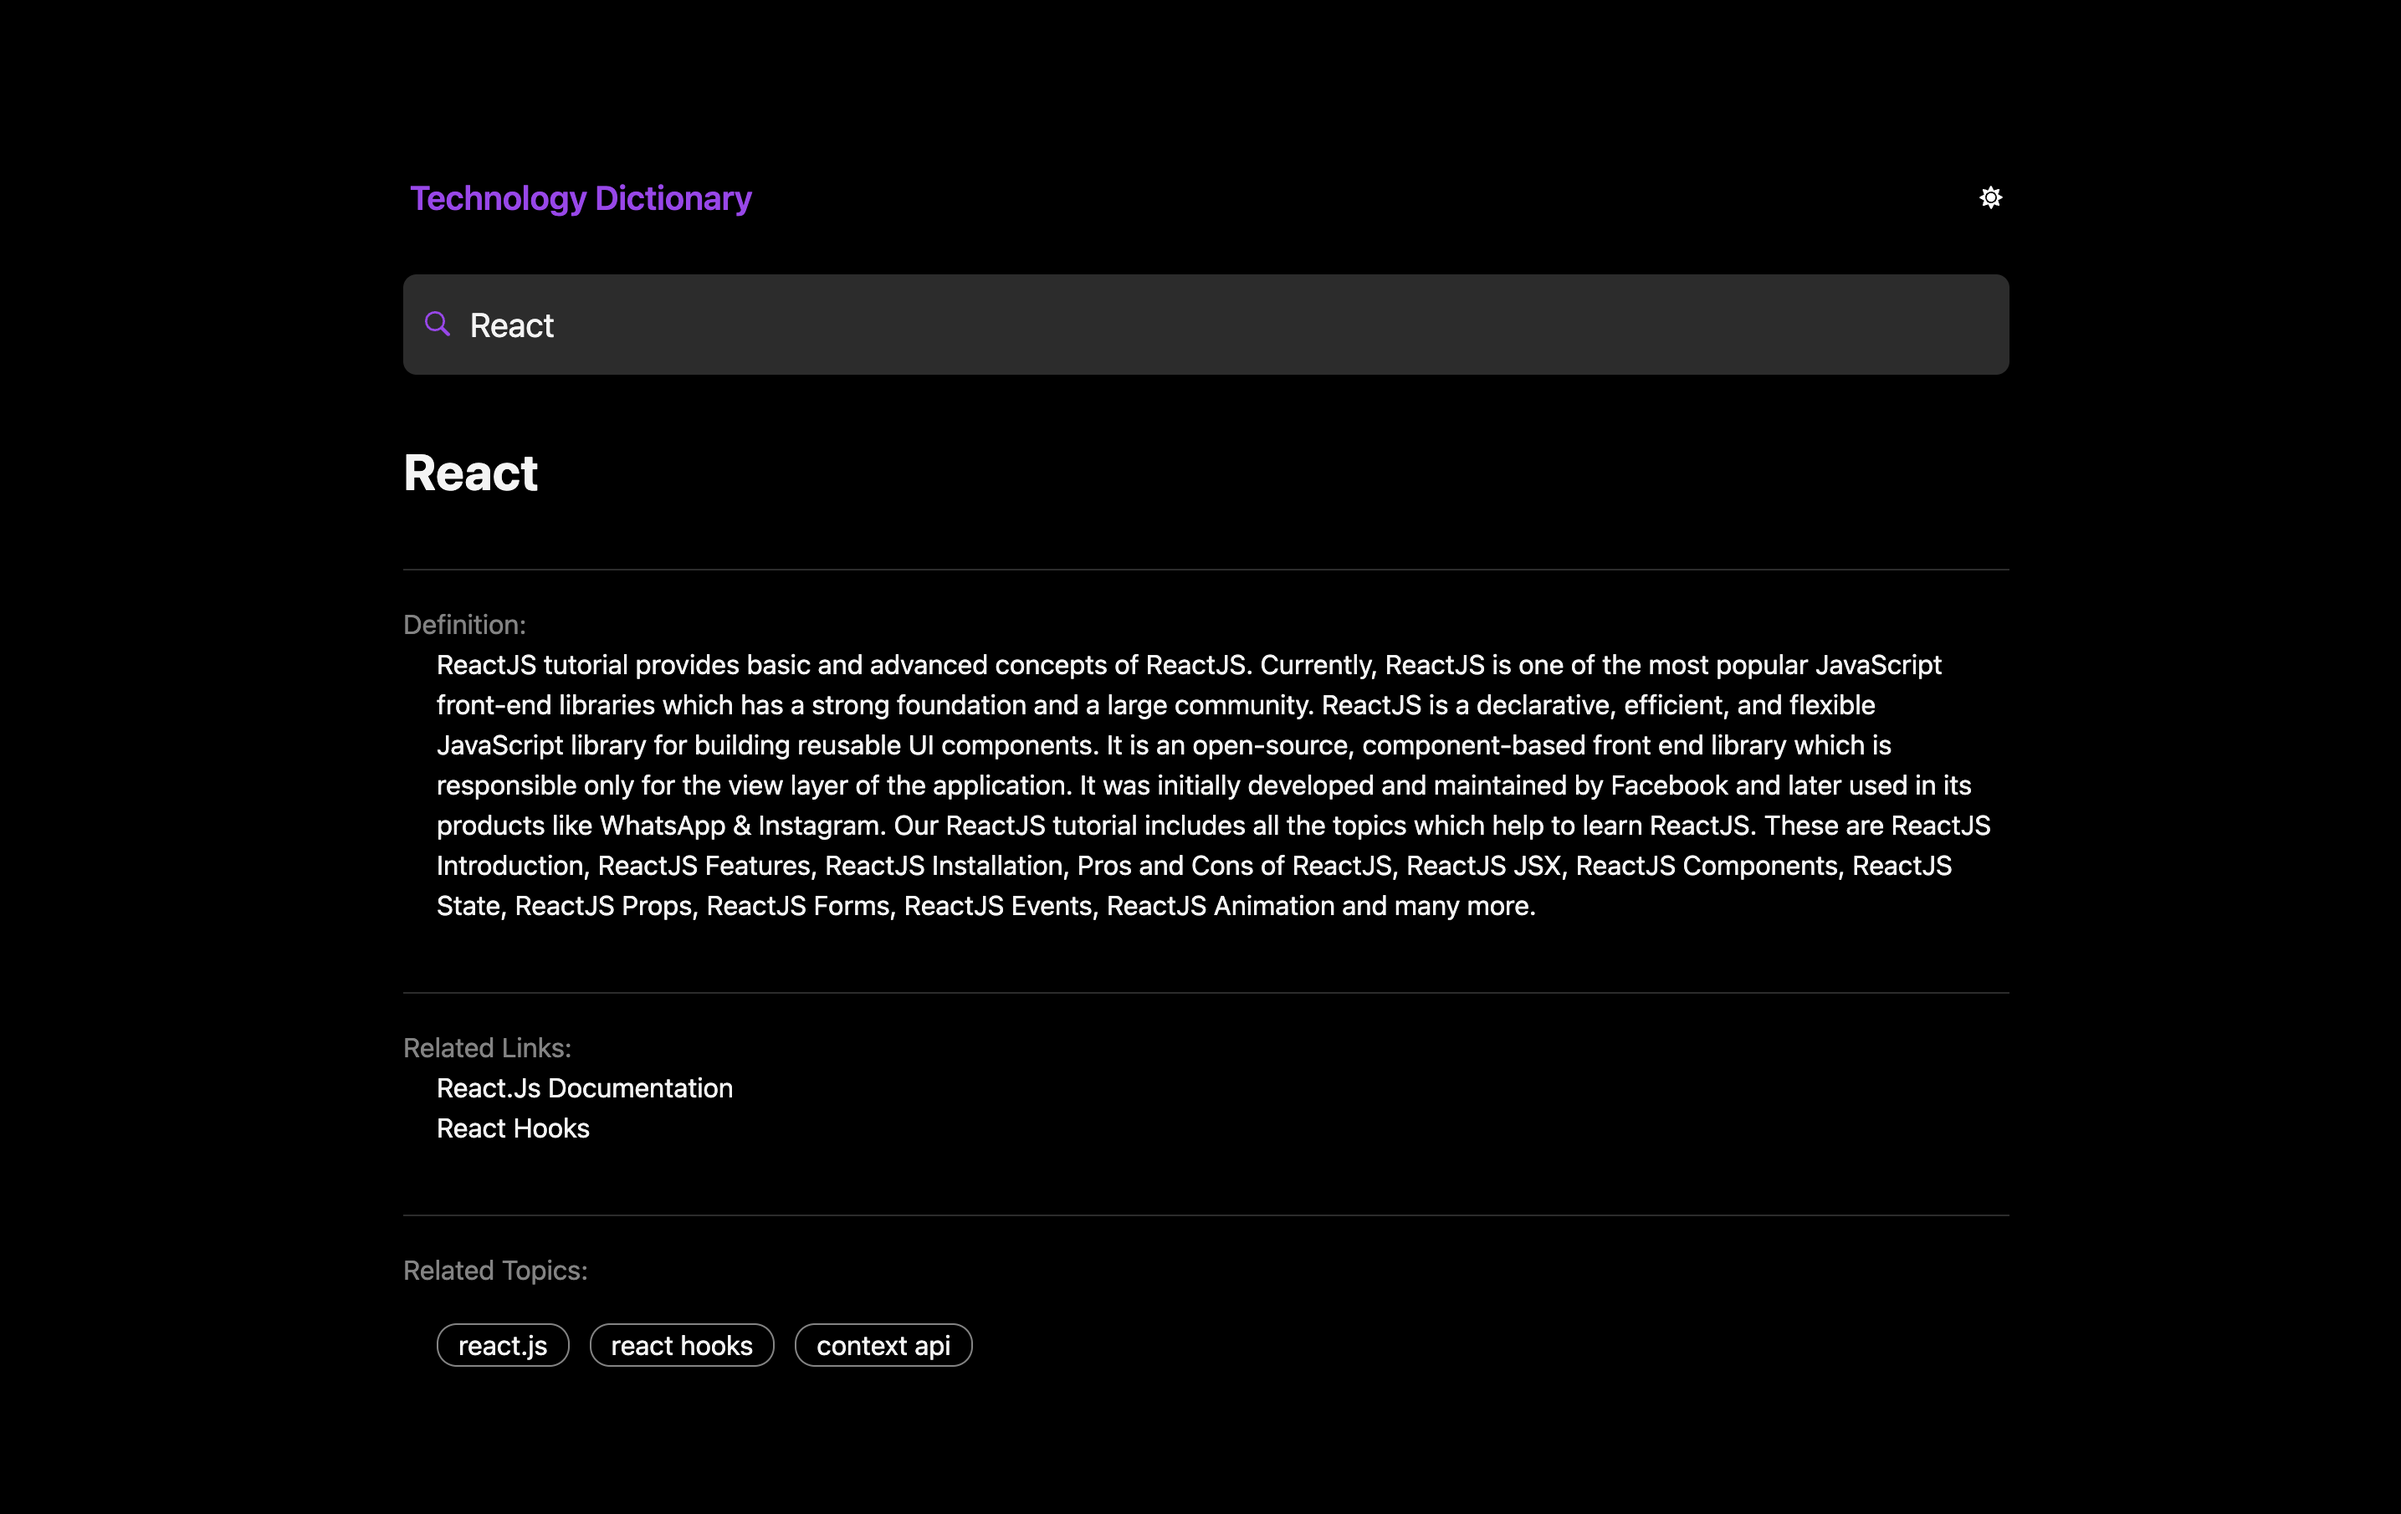
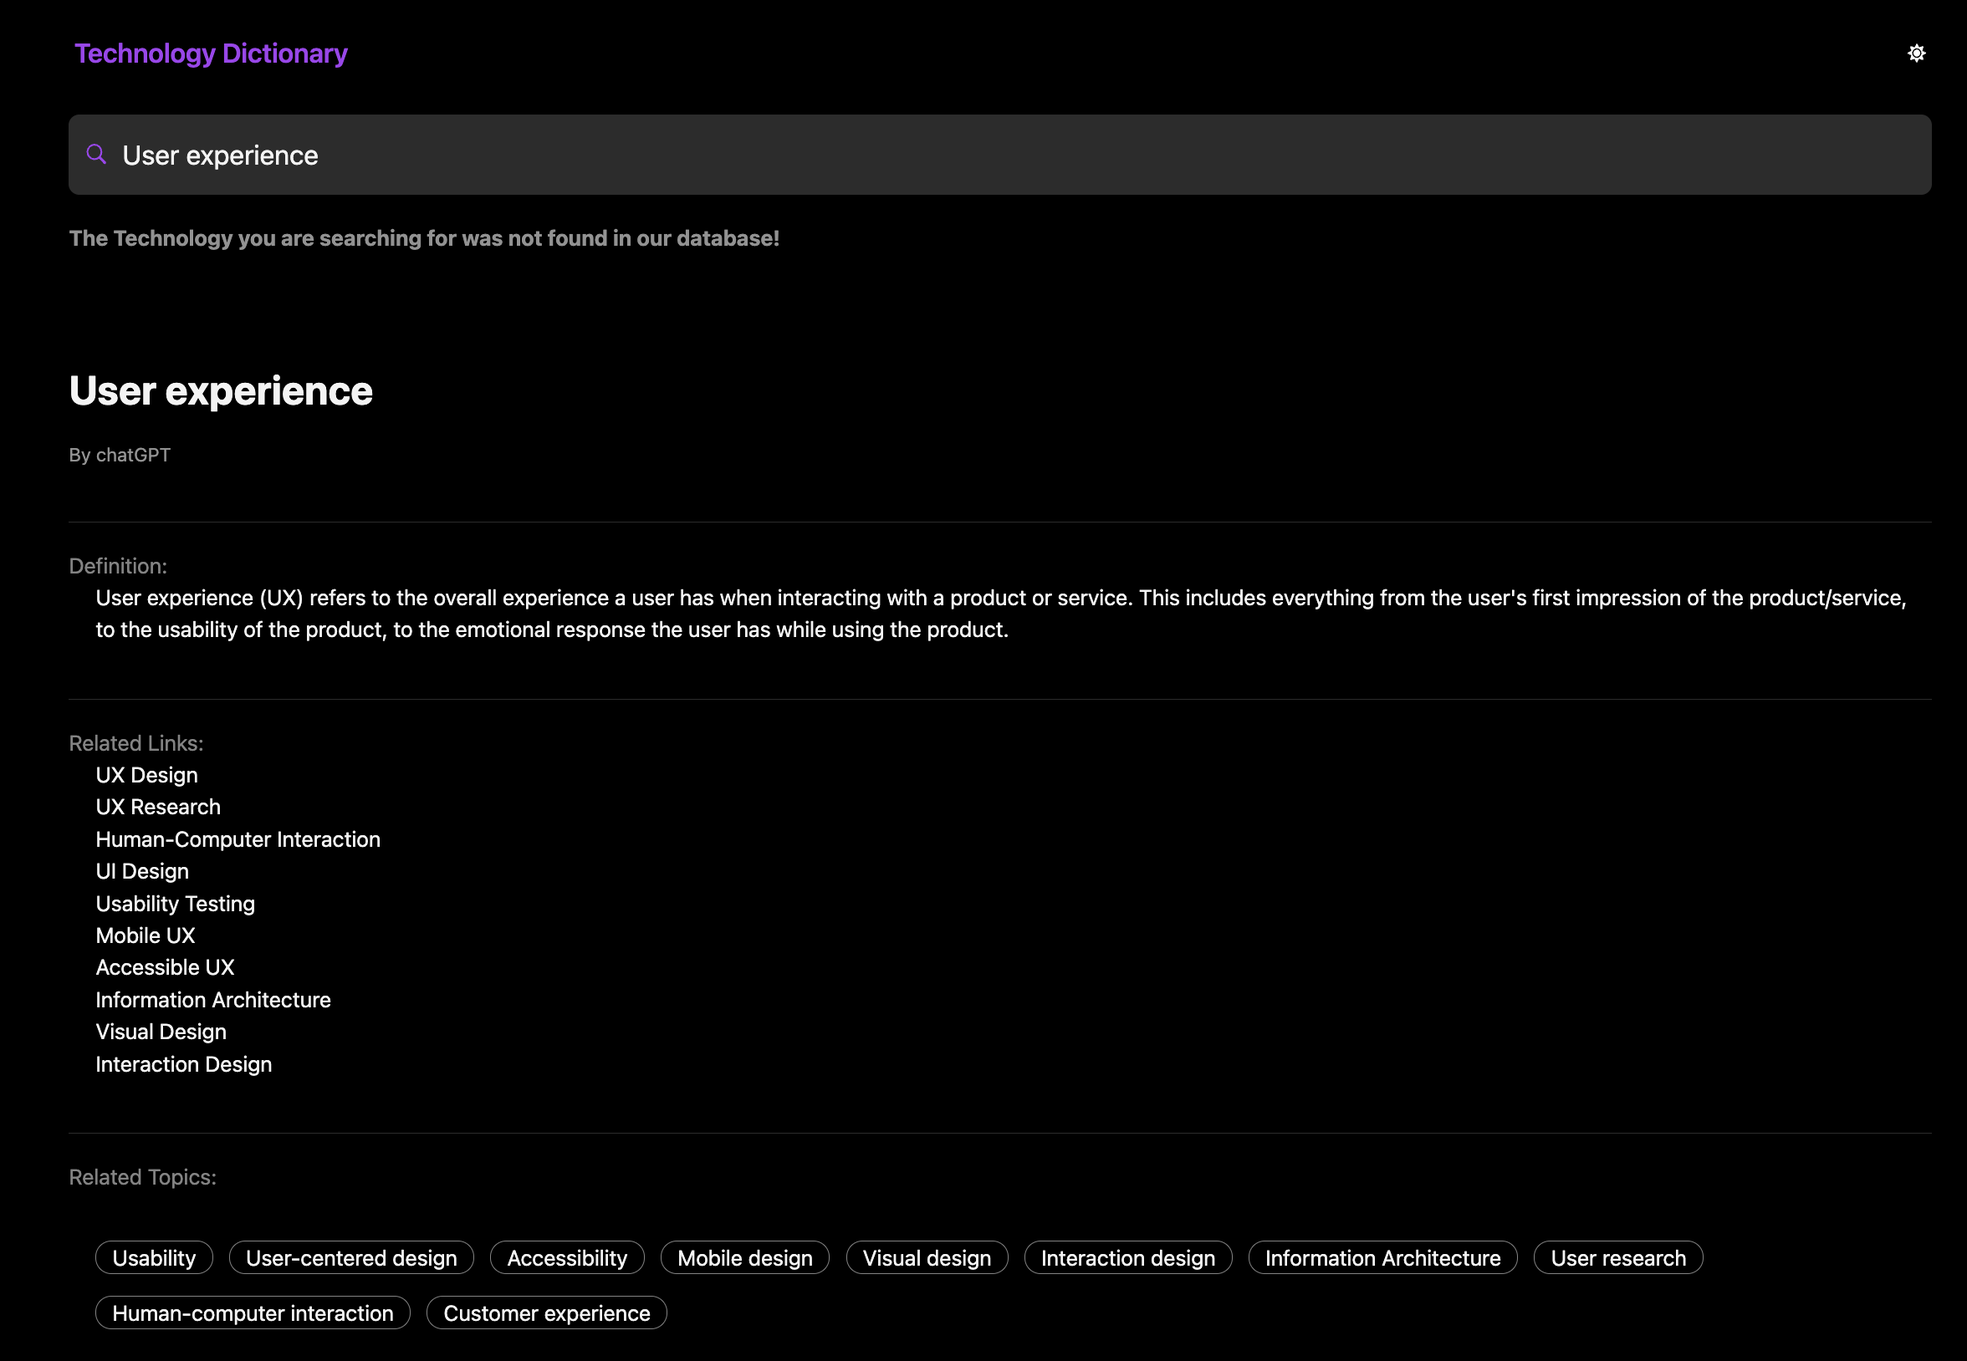
readme

diff --git a/README.md b/README.md
@@ -1,9 +1,11 @@
 ![Technology dictionary](public/screenshot.png)
+![Technology dictionary](public/screenshot2.png)
 
 ## About this repository
 
 - This is a dictionary implemented using : Next.JS, GraphQL, MongoDB, Apollo, Tailwind CSS, TypeScript
 - You can find thechnology-related words with the definition, related links and more related topics in the dictionary
+- If the word is not found in my database, it will suggest you to find the definition using chatGPT and if so loades the definition,related links and related topics using openAI
 - It supports both dark mode and light mode
 - It supports all screen sizes
 
